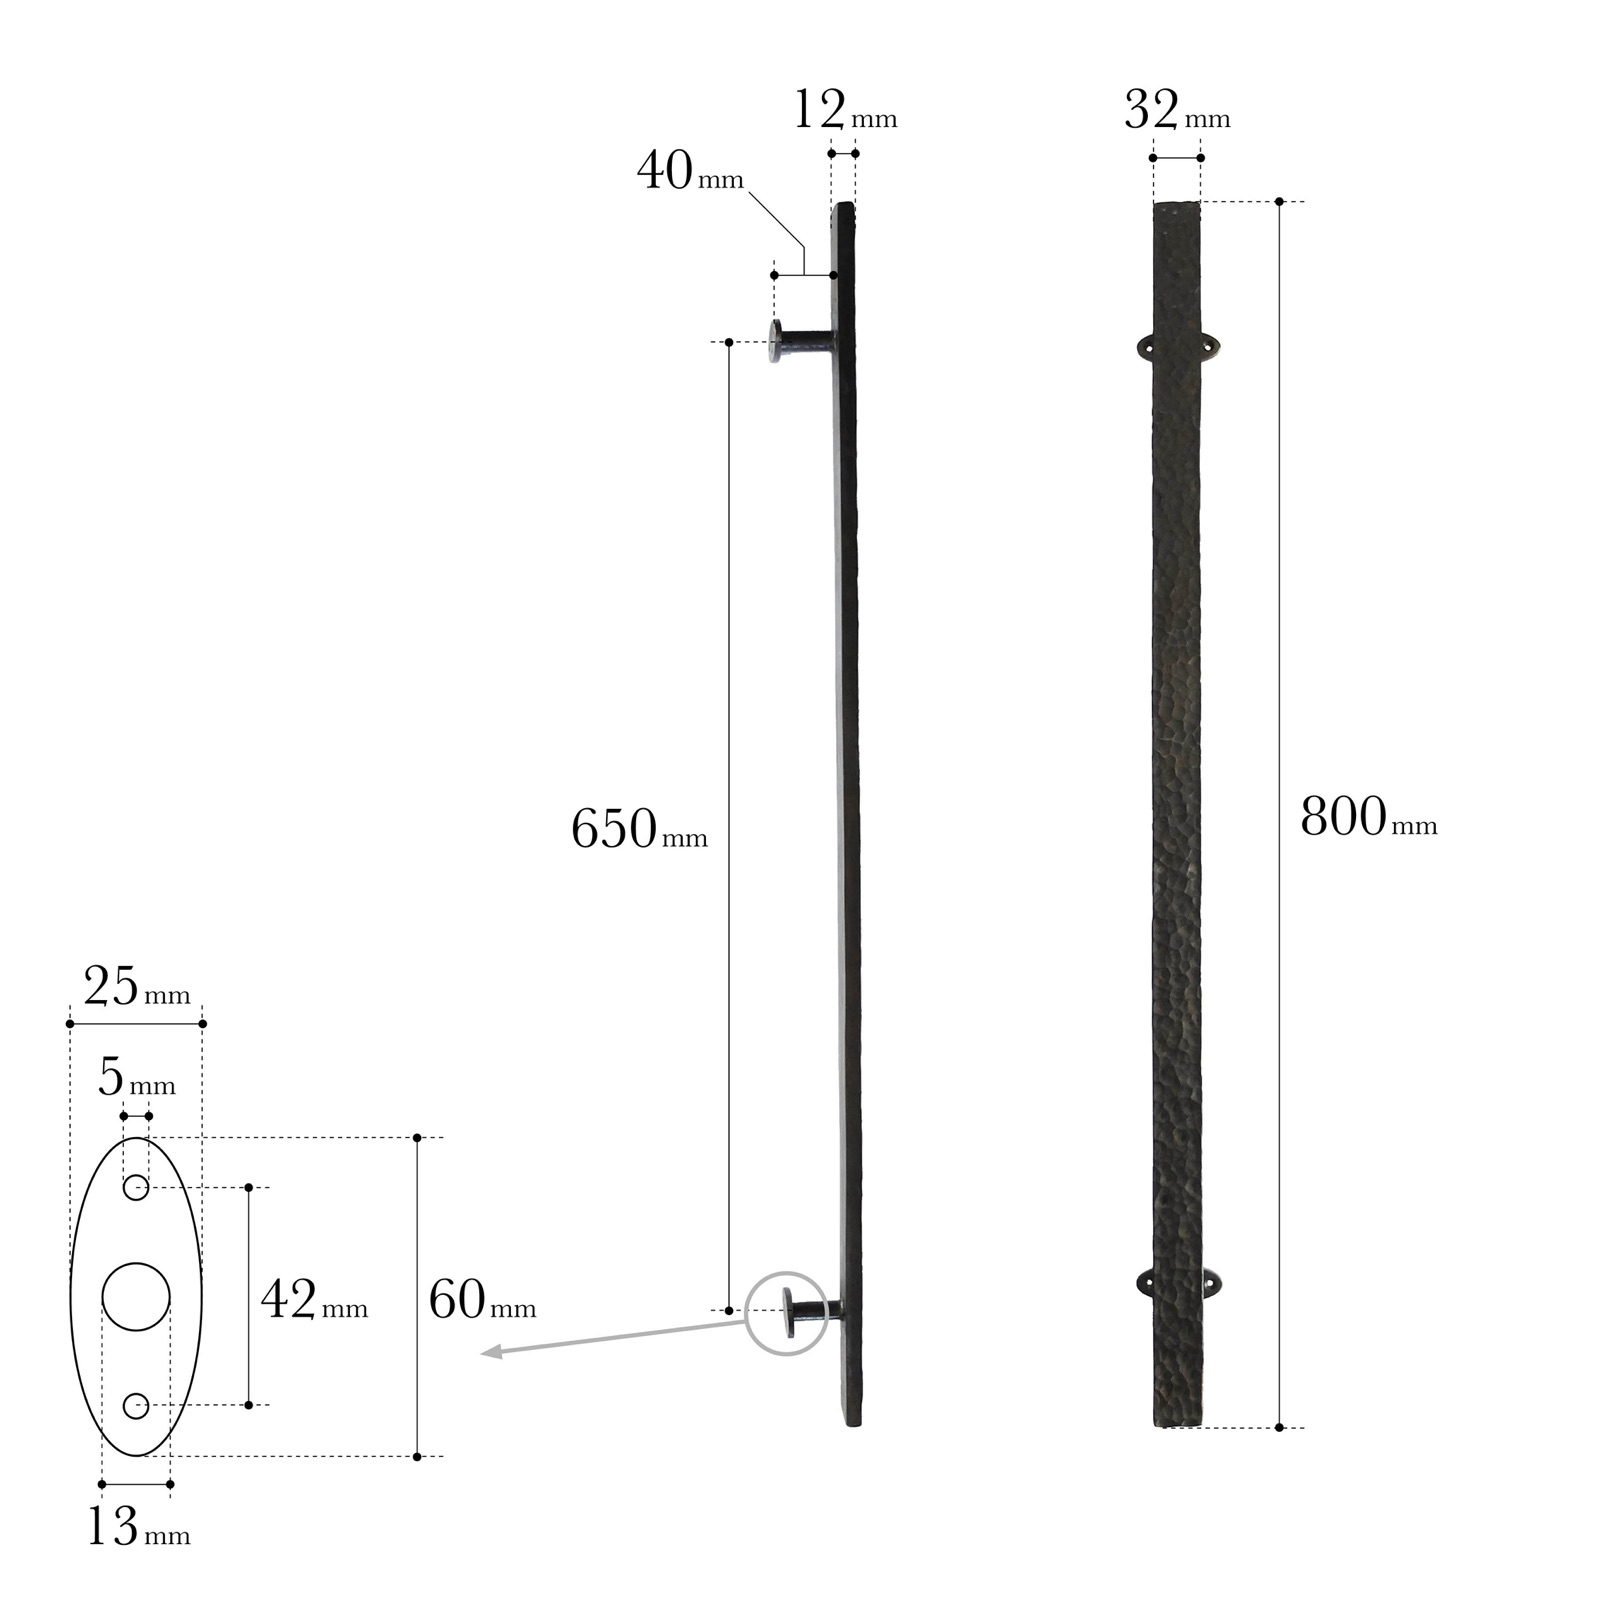
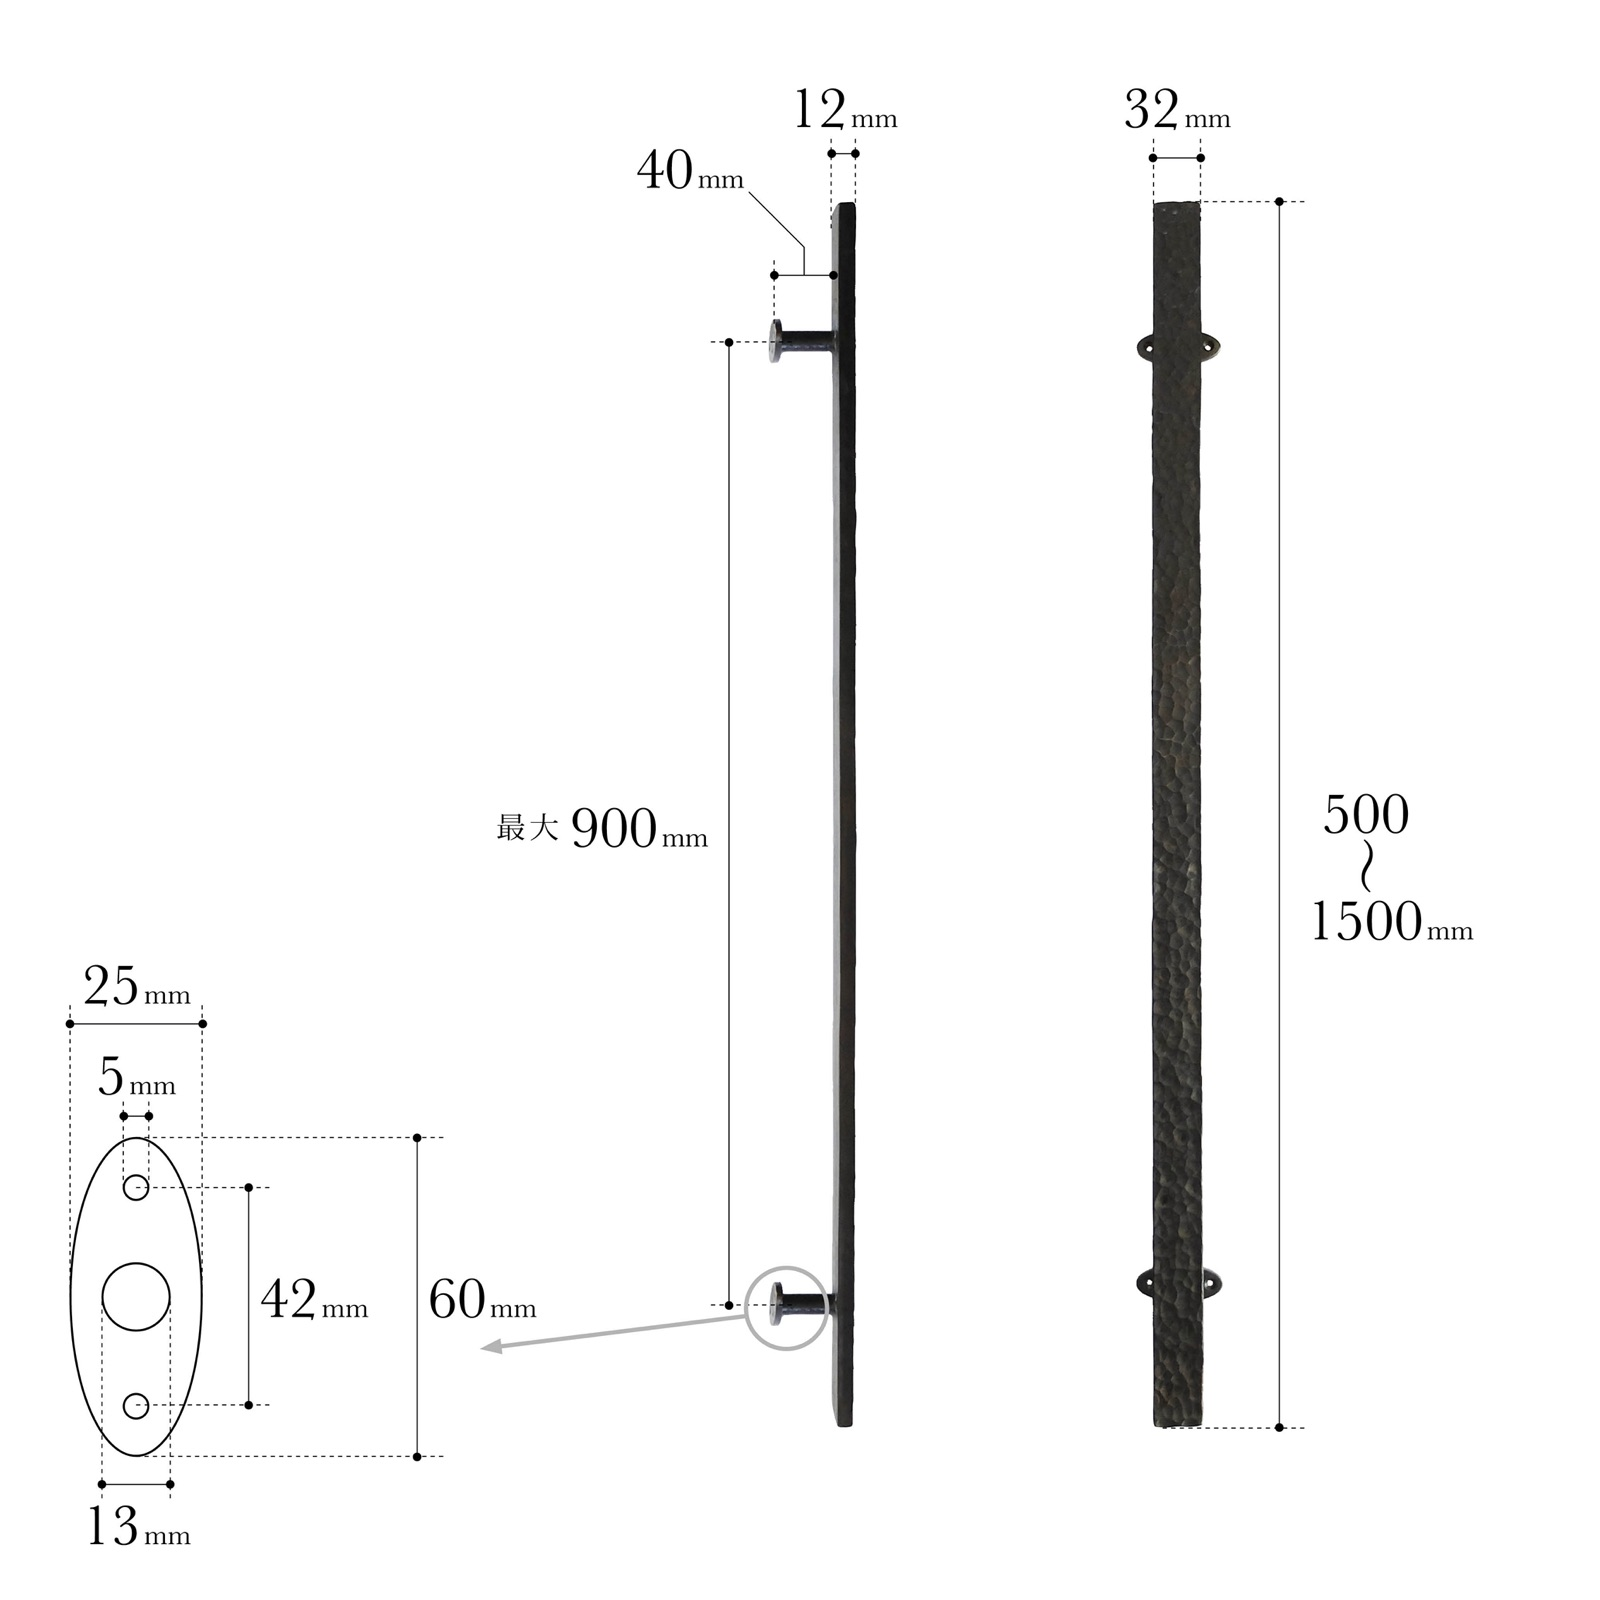
feat(tsuchime): 縦型可変長に変更し価格表・画像を刷新
Claude と同じ縦型サイズオーダー（L500〜1500mm）に変更。

- 分類を fixed → vertical に。長さ入力欄と座金位置の指定UIが有効化
  （副次的に、これまで描画されなかった制作図も表示されるようになった）
- 価格を priceTable 方式に。600mm=¥60,000 / 1500mm=¥130,000 をアンカーに
  1mm単価を100→90→80→70円と逓減させ、100mm刻みで千円単位の丸い金額になるよう調整
- 座金は φ25×60mm の座金B 固定・2本のみ（washerTypeSelectable / maxZakinCount を追加）
- トップ画像と設計図を最新版に差し替え
- 一覧・価格ページの表記を L500〜1500mm / ¥50,000〜 に更新

diff --git a/v0-design/lib/drawing-modal/products.ts b/v0-design/lib/drawing-modal/products.ts
@@ -111,6 +111,12 @@ export interface DrawingProductConfig {
   zakinCustomizable?: boolean
   // true の商品は 2.5m 以上でジョイント代を自動加算する（Gaston 専用）。
   jointFeeEnabled?: boolean
+  // false の商品は座金タイプ A/B の選択欄を出さない（washerSpec のタイプで固定）。
+  // 鎚目は φ25×60mm の座金B のみで製作するため false（2026-08-17 蠣﨑さん指定）。
+  washerTypeSelectable?: boolean
+  // 座金の本数上限。未指定なら縦型3・横型20（従来通り）。
+  // 鎚目は 2 本のみで製作するため 2（2026-08-17 蠣﨑さん指定）。
+  maxZakinCount?: number
 }
 
 // 長さ L_mm に対する本体価格をテーブルから線形補間で取得。
@@ -490,17 +496,49 @@ DRAWING_PRODUCTS.fabrice = {
   includedZakin: 2,
 }
 
+// 鎚目: 全長を手打ちするため長さに比例して手間が増える。Claude と同じ縦型可変長だが、
+// 「std まで一律 + 超過分 pricePerMm」ではなく priceTable の線形補間で価格を出す。
+// アンカーは 600mm=¥60,000 / 1500mm=¥130,000（2026-08-16 蠣﨑さん指定）。
+// 100mm 刻みですべて千円単位の丸い数字になるよう、1mm 単価を 100→90→80→70 円と
+// 段階的に逓減させている。中間長は隣接2点の線形補間なので端数は出るが、
+// 100mm 刻みで選ぶ限り必ず丸い金額になる。
+export const TSUCHIME_PRICE_TABLE: PricePoint[] = [
+  { mm: 500, price: 50000 },
+  { mm: 600, price: 60000 },
+  { mm: 700, price: 69000 },
+  { mm: 800, price: 78000 },
+  { mm: 900, price: 86000 },
+  { mm: 1000, price: 94000 },
+  { mm: 1100, price: 102000 },
+  { mm: 1200, price: 109000 },
+  { mm: 1300, price: 116000 },
+  { mm: 1400, price: 123000 },
+  { mm: 1500, price: 130000 },
+]
+
 DRAWING_PRODUCTS.tsuchime = {
   slug: "tsuchime",
   nameJa: "鎚目 TSUCHIME",
   drawingCode: "IW-TCH",
   material: "純無垢鉄",
   finish: "手打ち鎚目仕上げ",
-  category: "fixed",
-  basePrice: 70000,
-  stdLengthMm: 800,
-  maxMm: 800,
+  category: "vertical",
+  basePrice: 50000,
+  stdLengthMm: 500,
+  maxMm: 1500,
   includedZakin: 2,
+  zakinRule: VERTICAL_STANDARD_RULE,
+  priceTable: TSUCHIME_PRICE_TABLE,
+  // 仕様書の「ブラケット座金 φ25×60mm」に合わせて座金Bで固定（支柱13φ）。
+  // washerSpec を持つ縦型商品は簡易 schematic ではなく CAD 精密図で制作図を描く。
+  washerSpec: WASHER_SPEC_B,
+  washerTypeSelectable: false,
+  maxZakinCount: 2,
+  titleBlock: {
+    productName: "TSUCHIME",
+    color: "マットブラック",
+    material: "無垢鉄 FB32×12",
+  },
 }
 
 // European: L600〜800mmの範囲内は一律料金（範囲外は別途相談）。

diff --git a/v0-design/lib/products/display.ts b/v0-design/lib/products/display.ts
@@ -62,7 +62,7 @@ const FB_MITSUROU: FeatureBullet[] = [
 const FB_TSUCHIME: FeatureBullet[] = [
   { icon: "Hammer", title: "手打ち鎚目", desc: "職人の一打ち一打ちが生む、唯一無二の表情" },
   { icon: "Paintbrush", title: "火造り鍛造", desc: "伝統の火造り鍛造で無垢鉄を鍛え上げます" },
-  { icon: "Ruler", title: "固定サイズ", desc: "職人の逸品として決まった寸法でお届けします" },
+  { icon: "Ruler", title: "長さが選べる", desc: "L500〜1500mm の範囲でサイズオーダーできます" },
   { icon: "Wrench", title: "取付簡単", desc: "付属の金具で簡単に取り付け可能" },
 ]
 
@@ -76,8 +76,10 @@ const LOCAL_IMAGE_OVERRIDES: Record<string, string> = {
   "2d1043dcd7658a96e5f3.jpg": "/images/gallery/antoine-top.jpg",
   // Catherine: 旧画像の値段表記が古かったため ¥34,500 表記の正画像に差し替え
   "8775cfcb40298257834a.jpg": "/images/gallery/catherine-top.jpg",
-  // 鎚目: 板厚 10mm 表記の旧設計図を、12mm の最新版に差し替え
+  // 鎚目: 板厚 10mm 表記の旧設計図を、12mm・L500〜1500mm の最新版に差し替え
   "d6a16b30872381554056.jpg": "/images/products/tsuchime/sekkeizu.jpg",
+  // 鎚目: トップ画像を新ビジュアルに差し替え
+  "569af3ee76a1999863e7.jpg": "/images/products/tsuchime/top.jpg",
 }
 
 export function galleryUrl(id: string, variant: string = "public"): string {
@@ -562,7 +564,7 @@ const DISPLAY: Record<string, ProductDisplay> = {
       { label: "素材", value: "鉄" },
       { label: "仕上げ", value: "錆止め吹付塗装 + 2液型ウレタン艶消し黒塗装" },
       { label: "製法", value: "火造り鍛造（手打ち鎚目）" },
-      { label: "サイズ", value: "L800 × D52 × W60mm / ブラケット座金 φ25×60mm" },
+      { label: "サイズ", value: "L500〜1500mm（長さに応じて価格が変わります）× D52 × W60mm / ブラケット座金 φ25×60mm" },
       { label: "備考", value: "全てハンドメイドのため誤差あり / サイズオーダー可" },
       { label: "付属品", value: "取付用ビス M4×40mm（座金1箇所×2本）・タッチアップ剤（1液ウレタン）" },
     ],

diff --git a/v0-design/app/products/[slug]/page.tsx b/v0-design/app/products/[slug]/page.tsx
@@ -1329,8 +1329,9 @@ export default function ProductDetailPage() {
                             </p>
                           </div>
                         )}
-                        {/* 座金タイプ選択 (縦型CAD精密図対応商品のみ) — 長さの直下に常時表示 */}
-                        {product.drawing.category === "vertical" && product.drawing.washerSpec && (
+                        {/* 座金タイプ選択 (縦型CAD精密図対応商品のみ) — 長さの直下に常時表示。
+                            washerTypeSelectable === false（鎚目）は座金タイプが1種のため選択欄を出さない。 */}
+                        {product.drawing.category === "vertical" && product.drawing.washerSpec && product.drawing.washerTypeSelectable !== false && (
                           <div className="mt-3 border border-gold/20 bg-card p-4">
                             <div className="flex items-center gap-3 mb-3">
                               <span className="font-serif text-[15px] font-medium text-foreground min-w-[80px]">座金タイプ</span>
@@ -1466,7 +1467,7 @@ export default function ProductDetailPage() {
                                   onChange={setZakin}
                                   zakinRule={zakinRule}
                                   disableAngle={product.drawing.category === "vertical"}
-                                  maxCount={product.drawing.category === "vertical" ? 3 : 20}
+                                  maxCount={product.drawing.maxZakinCount ?? (product.drawing.category === "vertical" ? 3 : 20)}
                                   embedded
                                   className="mt-3"
                                 />

diff --git a/v0-design/lib/products/catalog.ts b/v0-design/lib/products/catalog.ts
@@ -65,7 +65,7 @@ export const CATALOG_PRODUCTS: CatalogProduct[] = [
   { cat: "handrail_v", label: "ロートアイアン・縦型", name: "Scroll スクロール 19φ", sub: "70cm 無垢鉄 火造り鍛造", price: 32000, priceFrom: true, img: "25b6438ea6a9393aa027", href: "/products/scroll19" },
   { cat: "handrail_v", label: "ロートアイアン・縦型", name: "Scroll スクロール 22φ", sub: "80cm 無垢鉄 火造り鍛造", price: 60000, priceFrom: true, img: "d09c9426e8510d2ca152", href: "/products/scroll22" },
   { cat: "handrail_v", label: "ロートアイアン・縦型", name: "Fabrice ファブリス", sub: "80cm 無垢鉄 火造り鍛造", price: 100000, priceFrom: true, badge: "Artisan", img: "66a699b295bcdb8f3598", href: "/products/fabrice" },
-  { cat: "handrail_v", label: "ロートアイアン・縦型", name: "鎚目 TSUCHIME", sub: "80cm 無垢鉄 火造り鍛造", price: 70000, priceFrom: true, badge: "Artisan", img: "569af3ee76a1999863e7", href: "/products/tsuchime" },
+  { cat: "handrail_v", label: "ロートアイアン・縦型", name: "鎚目 TSUCHIME", sub: "L500〜1500mm 無垢鉄 火造り鍛造", price: 50000, priceFrom: true, badge: "Artisan", img: "569af3ee76a1999863e7", href: "/products/tsuchime" },
   { cat: "handrail_v", label: "ロートアイアン・縦型", name: "European ヨーロピアン", sub: "L600〜800mm 無垢鉄 ハンマー鍛造", price: 110000, priceFrom: true, badge: "Artisan", img: "/images/products/european/01", href: "/products/european" },
 
   // アプローチ (3 商品)

diff --git a/v0-design/lib/products/order-pricing.ts b/v0-design/lib/products/order-pricing.ts
@@ -16,6 +16,7 @@ import {
   MARCEL_PRICE_TABLE,
   EMILE_PRICE_TABLE,
   EUROPEAN_PRICE_TABLE,
+  TSUCHIME_PRICE_TABLE,
   lookupPriceFromTable,
   type PricePoint,
 } from '@/lib/drawing-modal/products';
@@ -104,7 +105,7 @@ export const PRODUCTS: Record<string, Product> = {
   scroll19:   { name: 'Scroll スクロール 19φ',    type: '縦型', basePrice: 32000, stdLengthMm: 700,  maxMm: 700,  finish: 'ミツロウ仕上げ', includedZakin: 2 },
   scroll22:   { name: 'Scroll スクロール 22φ',    type: '縦型', basePrice: 60000, stdLengthMm: 800,  maxMm: 800,  finish: 'ミツロウ仕上げ', includedZakin: 2 },
   fabrice:    { name: 'Fabrice ファブリス',        type: '縦型', basePrice: 100000, stdLengthMm: 800, maxMm: 800,  finish: '無垢鉄 火造り鍛造', includedZakin: 2 },
-  tsuchime:   { name: '鎚目 TSUCHIME',            type: '縦型', basePrice: 70000, stdLengthMm: 800,  maxMm: 800,  finish: '手打ち鎚目仕上げ', includedZakin: 2 },
+  tsuchime:   { name: '鎚目 TSUCHIME',            type: '縦型', basePrice: 50000, stdLengthMm: 500,  maxMm: 1500, finish: '手打ち鎚目仕上げ', includedZakin: 2, zakinRule: VERTICAL_STANDARD_RULE, priceTable: TSUCHIME_PRICE_TABLE },
   european:   { name: 'European ヨーロピアン',     type: '縦型', basePrice: 110000, stdLengthMm: 600, maxMm: 800, finish: 'ハンマー鍛造仕上げ（ブラック）', includedZakin: 2, zakinRule: EUROPEAN_RULE, priceTable: EUROPEAN_PRICE_TABLE },
 };
 

diff --git a/v0-design/app/price/page.tsx b/v0-design/app/price/page.tsx
@@ -49,6 +49,7 @@ const VERTICAL = [
   { slug: "catherine", name: "Catherine カトリーヌ", finish: "25φ・マットホワイト", stdLabel: "〜1m", maxM: 1.5 },
   { slug: "alexandre", name: "Alexandre アレクサンドル", finish: "31.8φ 太径・マットブラック", stdLabel: "〜1m", maxM: 3 },
   { slug: "antoine", name: "Antoine アントワーヌ", finish: "25φ ロング・マットブラック", stdLabel: "〜1.5m", maxM: 3 },
+  { slug: "tsuchime", name: "鎚目 TSUCHIME", finish: "フラットバー・手打ち鎚目", stdLabel: "0.5m〜", maxM: 1.5 },
 ]
 
 // 装飾・固定サイズ（一点物）
@@ -56,7 +57,6 @@ const FIXED = [
   { slug: "scroll16", name: "Scroll スクロール 16φ", size: "700mm", finish: "無垢鉄・ミツロウ仕上げ" },
   { slug: "scroll19", name: "Scroll スクロール 19φ", size: "700mm", finish: "無垢鉄・ミツロウ仕上げ" },
   { slug: "scroll22", name: "Scroll スクロール 22φ", size: "800mm", finish: "無垢鉄・ミツロウ仕上げ" },
-  { slug: "tsuchime", name: "鎚目 TSUCHIME", size: "800mm", finish: "手打ち鎚目仕上げ" },
   { slug: "fabrice", name: "Fabrice ファブリス", size: "800mm", finish: "無垢鉄・火造り鍛造" },
 ]
 

diff --git a/v0-design/lib/products/quote-pricing.ts b/v0-design/lib/products/quote-pricing.ts
@@ -46,7 +46,7 @@ export interface QuotePriceResult {
 /**
  * 参考見積もり用の単価を返す。
  * - DRAWING_PRODUCTS 未登録の商品 (Élisabeth/Clémence) は null。
- * - 固定長商品 (Scroll/Fabrice/鎚目) は length 無視で basePrice を返す。
+ * - 固定長商品 (Scroll/Fabrice) は length 無視で basePrice を返す。
  * - 価格テーブル指定商品 (René/Claire/Marcel/Émile) はテーブル参照で線形補間。
  *   1.5m 以下はすべて basePrice (一律)。
  * - 縦型シリーズ (Claude/Catherine/Alexandre/Antoine) は stdLengthMm まで一律 basePrice、
